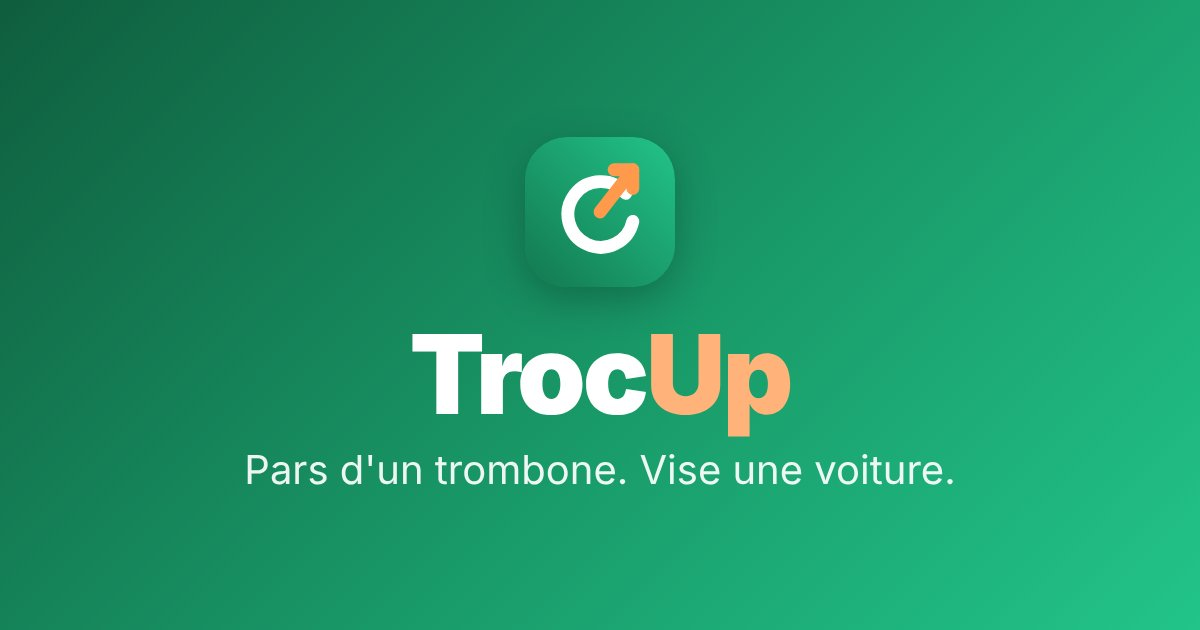
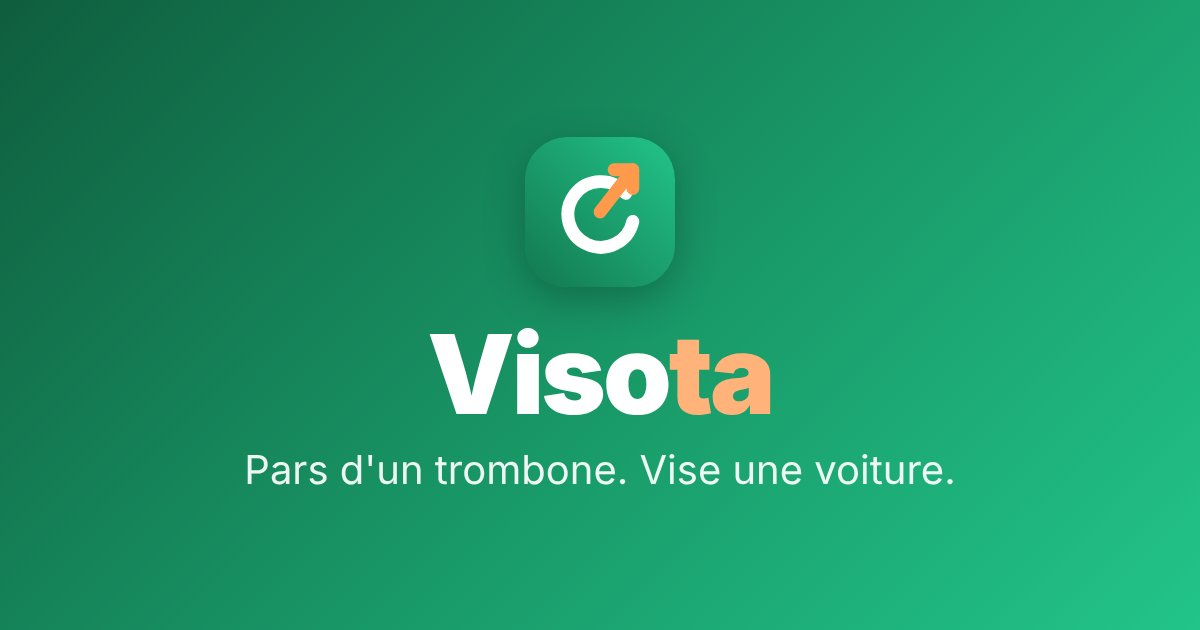
Nouveau nom : Visota

Changed region(s): [[0.3392, 0.5127, 0.6783, 0.6937]]

diff --git a/public/js/partage-chaine.js b/public/js/partage-chaine.js
@@ -56,9 +56,14 @@
         // En-tête
         ctx.fillStyle = '#fff';
         ctx.font = `900 64px ${police}`;
-        ctx.fillText('Troc', 80, 130);
-        const lTroc = ctx.measureText('Troc').width;
-        ctx.fillStyle = '#ffb27a'; ctx.fillText('Up', 80 + lTroc, 130);
+        // Le nom du site, avec la fin en orange (comme le logo)
+        const nom = bouton.dataset.site, accent = bouton.dataset.accent || '';
+        const debut = accent && nom.endsWith(accent) ? nom.slice(0, -accent.length) : nom;
+        ctx.fillText(debut, 80, 130);
+        if (debut !== nom) {
+            const l = ctx.measureText(debut).width;
+            ctx.fillStyle = '#ffb27a'; ctx.fillText(accent, 80 + l, 130);
+        }
         ctx.fillStyle = 'rgba(255,255,255,.9)';
         ctx.font = `600 40px ${police}`;
         ctx.fillText('La chaîne d’échanges de @' + bouton.dataset.pseudo, 80, 200);
@@ -100,7 +105,7 @@
 
         ctx.font = `600 34px ${police}`;
         ctx.fillStyle = 'rgba(255,255,255,.92)';
-        ctx.fillText('Pars d’un trombone. Vise une voiture. — ' + bouton.dataset.site, 80, H - 70);
+        ctx.fillText(bouton.dataset.slogan + ' — ' + bouton.dataset.site, 80, H - 70);
         return canvas;
     }
 
@@ -113,7 +118,7 @@
         const url = canvas.toDataURL('image/png');
         document.getElementById('apercu-image').src = url;
         document.getElementById('apercu-telecharger').href = url;
-        fichier = await new Promise(r => canvas.toBlob(b => r(new File([b], 'ma-chaine-trocup.png', { type: 'image/png' }))));
+        fichier = await new Promise(r => canvas.toBlob(b => r(new File([b], bouton.dataset.fichier, { type: 'image/png' }))));
         // Le bouton « Partager » n'apparaît que si le téléphone/navigateur sait partager des fichiers
         document.getElementById('apercu-partager').hidden = !(navigator.canShare && navigator.canShare({ files: [fichier] }));
         apercu.hidden = false;
@@ -121,7 +126,7 @@
     });
 
     document.getElementById('apercu-partager').addEventListener('click', () => {
-        navigator.share({ files: [fichier], title: 'Ma chaîne TrocUp', text: 'Regarde jusqu’où je suis monté sur TrocUp !' }).catch(() => {});
+        navigator.share({ files: [fichier], title: 'Ma chaîne ' + bouton.dataset.site, text: 'Regarde jusqu’où je suis monté sur ' + bouton.dataset.site + ' !' }).catch(() => {});
     });
     document.getElementById('apercu-fermer').addEventListener('click', () => { apercu.hidden = true; });
     apercu.addEventListener('click', e => { if (e.target === apercu) apercu.hidden = true; });

diff --git a/public/js/notifications.js b/public/js/notifications.js
@@ -9,7 +9,7 @@
     function afficher(total) {
         badge.textContent = total > 99 ? '99+' : total;
         badge.hidden = total === 0;
-        // Le chiffre apparaît aussi dans l'onglet du navigateur : « (2) TrocUp »
+        // Le chiffre apparaît aussi dans l'onglet du navigateur : « (2) Visota »
         document.title = total > 0 ? '(' + total + ') ' + titreOrigine : titreOrigine;
     }
 

diff --git a/public/css/style.css b/public/css/style.css
@@ -1,4 +1,4 @@
-/* ===== TrocUp — feuille de style ===== */
+/* ===== Visota — feuille de style ===== */
 :root {
     --vert: #1f9d6b;
     --vert-fonce: #157a52;

diff --git a/app/views/utilisateurs/profil.php b/app/views/utilisateurs/profil.php
@@ -66,7 +66,8 @@ $connecte = utilisateur_connecte();
         }
         ?>
         <button type="button" class="bouton bouton-petit" id="partager-chaine"
-                data-pseudo="<?= e($profil['pseudo']) ?>" data-site="<?= e(NOM_SITE) ?>"
+                data-pseudo="<?= e($profil['pseudo']) ?>" data-site="<?= e(NOM_SITE) ?>" data-accent="<?= e(NOM_ACCENT) ?>"
+                data-slogan="<?= e(SLOGAN) ?>" data-fichier="ma-chaine-<?= slug_site() ?>.png"
                 data-etapes="<?= e(json_encode($etapes, JSON_UNESCAPED_UNICODE)) ?>">📤 <?= $estMoi ? 'Partager ma chaîne' : 'Partager cette chaîne' ?></button>
     <?php endif; ?>
 </div>
@@ -143,7 +144,7 @@ $connecte = utilisateur_connecte();
         <img id="apercu-image" alt="Image de la chaîne à partager">
         <div class="actions centre">
             <button type="button" class="bouton" id="apercu-partager">📤 Partager</button>
-            <a class="bouton bouton-secondaire" id="apercu-telecharger" download="ma-chaine-trocup.png">⬇ Télécharger</a>
+            <a class="bouton bouton-secondaire" id="apercu-telecharger" download="ma-chaine-<?= slug_site() ?>.png">⬇ Télécharger</a>
             <button type="button" class="bouton bouton-secondaire" id="apercu-fermer">Fermer</button>
         </div>
     </div>

diff --git a/app/core/helpers.php b/app/core/helpers.php
@@ -83,6 +83,22 @@ function photo_objet(?string $photo): string
     return $photo ? 'uploads/' . e($photo) : 'img/pas-de-photo.svg';
 }
 
+// Le nom du site pour le logo, avec la fin en couleur (réglage NOM_ACCENT)
+function logo_texte(): string
+{
+    $nom = NOM_SITE;
+    if (NOM_ACCENT !== '' && str_ends_with($nom, NOM_ACCENT)) {
+        return e(substr($nom, 0, -strlen(NOM_ACCENT))) . '<span>' . e(NOM_ACCENT) . '</span>';
+    }
+    return e($nom);
+}
+
+// Nom du site en minuscules sans accents ni espaces, pour les noms de fichiers : 'Visota' → 'visota'
+function slug_site(): string
+{
+    return strtolower(preg_replace('/[^A-Za-z0-9]+/', '-', iconv('UTF-8', 'ASCII//TRANSLIT', NOM_SITE)));
+}
+
 // Photo de profil ronde, ou à défaut la première lettre du pseudo sur une couleur qui lui est propre
 function avatar(?string $pseudo, ?string $fichier, int $taille = 40): string
 {

diff --git a/config/config.php b/config/config.php
@@ -20,7 +20,10 @@ defined('DB_USER') || define('DB_USER', getenv('DB_USER') ?: 'root');
 defined('DB_PASS') || define('DB_PASS', getenv('DB_PASS') !== false ? getenv('DB_PASS') : 'root');
 
 // ---------- Site ----------
-defined('NOM_SITE') || define('NOM_SITE', 'TrocUp');
+// Le nom du site : c'est le SEUL endroit à modifier pour le changer partout (site, emails, images de partage)
+defined('NOM_SITE') || define('NOM_SITE', 'Visota');
+// Partie du nom écrite en orange dans le logo ('' = tout le nom dans la même couleur). Ex. avec 'Visota' : 'ta' → Viso[ta]
+defined('NOM_ACCENT') || define('NOM_ACCENT', 'ta');
 defined('SLOGAN') || define('SLOGAN', 'Pars d\'un trombone. Vise une voiture.');
 
 // Adresse complète du site, utilisée pour les liens dans les emails (sans / à la fin)

diff --git a/app/core/Mailer.php b/app/core/Mailer.php
@@ -71,7 +71,7 @@ class Mailer
               . '<p style="font-size:12px;color:#6b7370">Si le bouton ne marche pas, copie ce lien dans ton navigateur :<br>' . e($lien) . '</p>'
             : '';
         return '<div style="font-family:Arial,sans-serif;max-width:520px;margin:auto;color:#1d2321">'
-             . '<h2 style="font-size:26px;margin-bottom:0">Troc<span style="color:#ff8a3d">Up</span></h2>'
+             . '<h2 style="font-size:26px;margin-bottom:0">' . str_replace('<span>', '<span style="color:#ff8a3d">', logo_texte()) . '</h2>'
              . '<h3>' . e($titre) . '</h3>'
              . '<p>' . nl2br(e($texte)) . '</p>' . $bouton
              . '<p style="font-size:12px;color:#6b7370">Si tu n\'es pas à l\'origine de cette demande, ignore cet email.</p></div>';

diff --git a/app/views/layout/header.php b/app/views/layout/header.php
@@ -25,7 +25,7 @@
     <div class="conteneur entete-contenu">
         <a href="<?= url('accueil') ?>" class="logo" aria-label="<?= e(NOM_SITE) ?> — accueil">
             <img src="img/logo.svg" alt="" width="36" height="36">
-            <span class="logo-texte">Troc<span>Up</span></span>
+            <span class="logo-texte"><?= logo_texte() ?></span>
         </a>
         <nav class="menu">
             <a href="<?= url('objet/recherche') ?>">🔍 Chercher</a>

diff --git a/config/config.local.exemple.php b/config/config.local.exemple.php
@@ -22,6 +22,6 @@ define('URL_SITE', 'http://localhost:8888/projet-echange/public');
 // --- Pages légales (obligatoire avant la mise en ligne) ---
 // define('EDITEUR_NOM', 'Prénom Nom');
 // define('EDITEUR_VILLE', 'Montpellier');
-// define('EDITEUR_EMAIL', 'contact@trocup.fr');
+// define('EDITEUR_EMAIL', 'contact@visota.fr');
 // define('HEBERGEUR_NOM', 'Nom de l\'hébergeur');
 // define('HEBERGEUR_ADRESSE', 'Adresse et téléphone de l\'hébergeur');

diff --git a/app/views/layout/footer.php b/app/views/layout/footer.php
@@ -5,7 +5,7 @@
         <div>
             <a href="<?= url('accueil') ?>" class="logo">
                 <img src="img/logo.svg" alt="" width="30" height="30">
-                <span class="logo-texte">Troc<span>Up</span></span>
+                <span class="logo-texte"><?= logo_texte() ?></span>
             </a>
             <p class="petit"><?= e(SLOGAN) ?><br>Le troc entre particuliers, un échange après l'autre.</p>
         </div>

diff --git a/README.md b/README.md
@@ -1,4 +1,4 @@
-# TrocUp — V1.5
+# Visota — V1.6
 
 > Pars d'un trombone. Vise une voiture.
 
